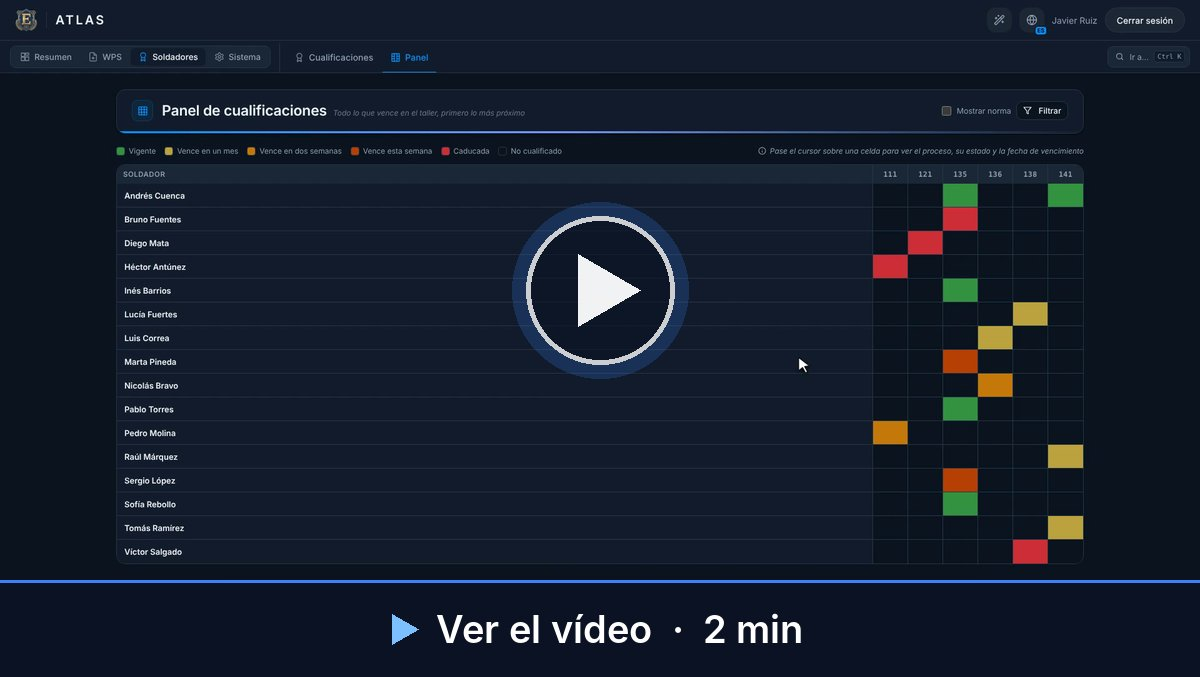
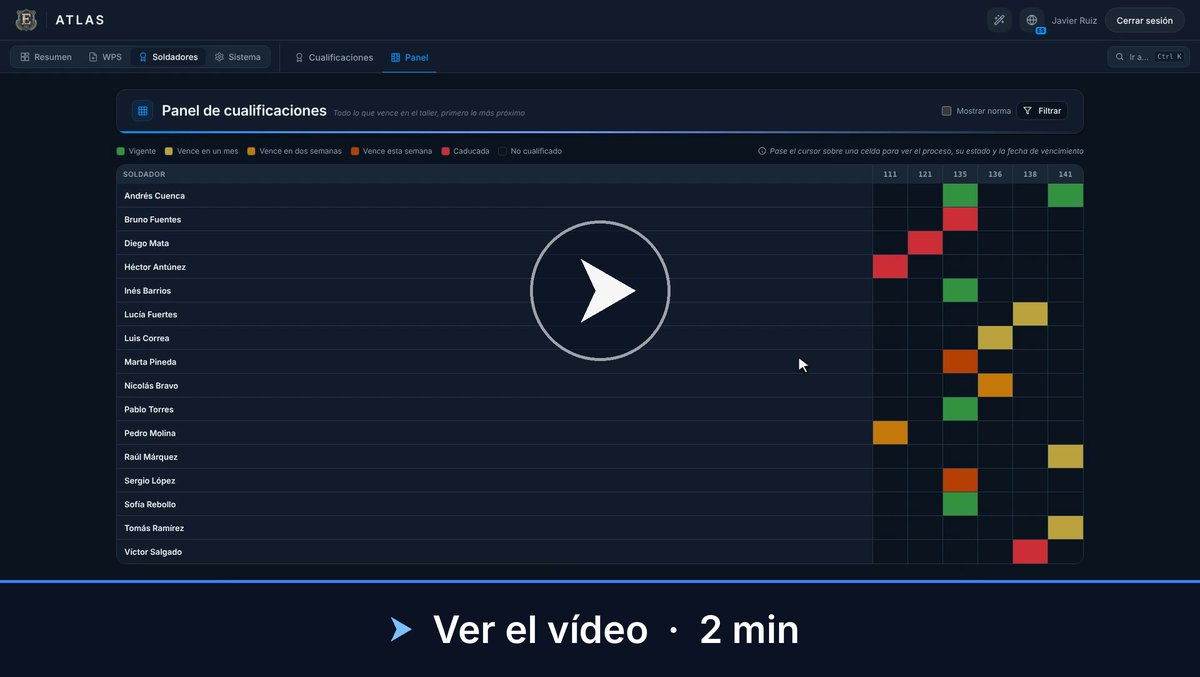
Video play button: notched arrow, lighter ring; email thumbnail matches
Claude-Session: https://claude.ai/code/session_01TXkxY6u2KmF5EvMC8whuAv

Changed region(s): [[0.4008, 0.2792, 0.5858, 0.5583], [0.3083, 0.8996, 0.555, 0.9616], [0.5858, 0.8996, 0.6783, 0.9616]]

diff --git a/docs/style.css b/docs/style.css
@@ -4385,12 +4385,12 @@ button.app-figure-frame:focus-visible .app-figure-zoom-hint {
 .atlas-video-speed button[aria-pressed="true"] { background: var(--accent-blue-soft); border-color: var(--accent-blue); }
 .atlas-video-frame { position: relative; }
 .atlas-video-play { position: absolute; left: 50%; top: 46%; transform: translate(-50%, -50%);
-    width: 84px; height: 84px; border-radius: 50%; display: flex; align-items: center; justify-content: center;
-    padding-left: 5px; color: #fff; cursor: pointer;
-    background: rgba(10, 18, 36, 0.55); border: 2px solid rgba(255, 255, 255, 0.7);
+    width: 92px; height: 92px; border-radius: 50%; display: flex; align-items: center; justify-content: center;
+    padding: 0 0 0 4px; color: #fff; cursor: pointer;
+    background: rgba(10, 18, 36, 0.5); border: 1.5px solid rgba(255, 255, 255, 0.55);
     -webkit-backdrop-filter: blur(4px); backdrop-filter: blur(4px);
-    box-shadow: 0 0 0 6px rgba(59, 130, 246, 0.18), 0 10px 30px rgba(0, 0, 0, 0.45);
+    box-shadow: 0 8px 28px rgba(0, 0, 0, 0.4);
     transition: background .15s, transform .15s; }
 .atlas-video-play:hover { background: rgba(59, 130, 246, 0.6); transform: translate(-50%, -50%) scale(1.06); }
 .atlas-video-frame.is-started .atlas-video-play { display: none; }
-@media (max-width: 600px) { .atlas-video-play { width: 64px; height: 64px; } .atlas-video-play svg { width: 26px; height: 26px; } }
+@media (max-width: 600px) { .atlas-video-play { width: 68px; height: 68px; } .atlas-video-play svg { width: 30px; height: 30px; } }

diff --git a/docs/_includes/atlas-video.html b/docs/_includes/atlas-video.html
@@ -11,7 +11,7 @@
                 <source src="/static/video/atlas-{{ l }}.mp4" type="video/mp4">
             </video>
             <button type="button" class="atlas-video-play" aria-label="{{ t_play }}">
-                <svg viewBox="0 0 24 24" width="34" height="34" aria-hidden="true"><path d="M8 5.5v13l11-6.5z" fill="currentColor"/></svg>
+                <svg viewBox="0 0 24 24" width="40" height="40" aria-hidden="true"><path d="M6.5 4.5 19.5 12 6.5 19.5 10 12Z" fill="currentColor" stroke="currentColor" stroke-width="1" stroke-linejoin="round"/></svg>
             </button>
             </div>
             <div class="atlas-video-bar">
